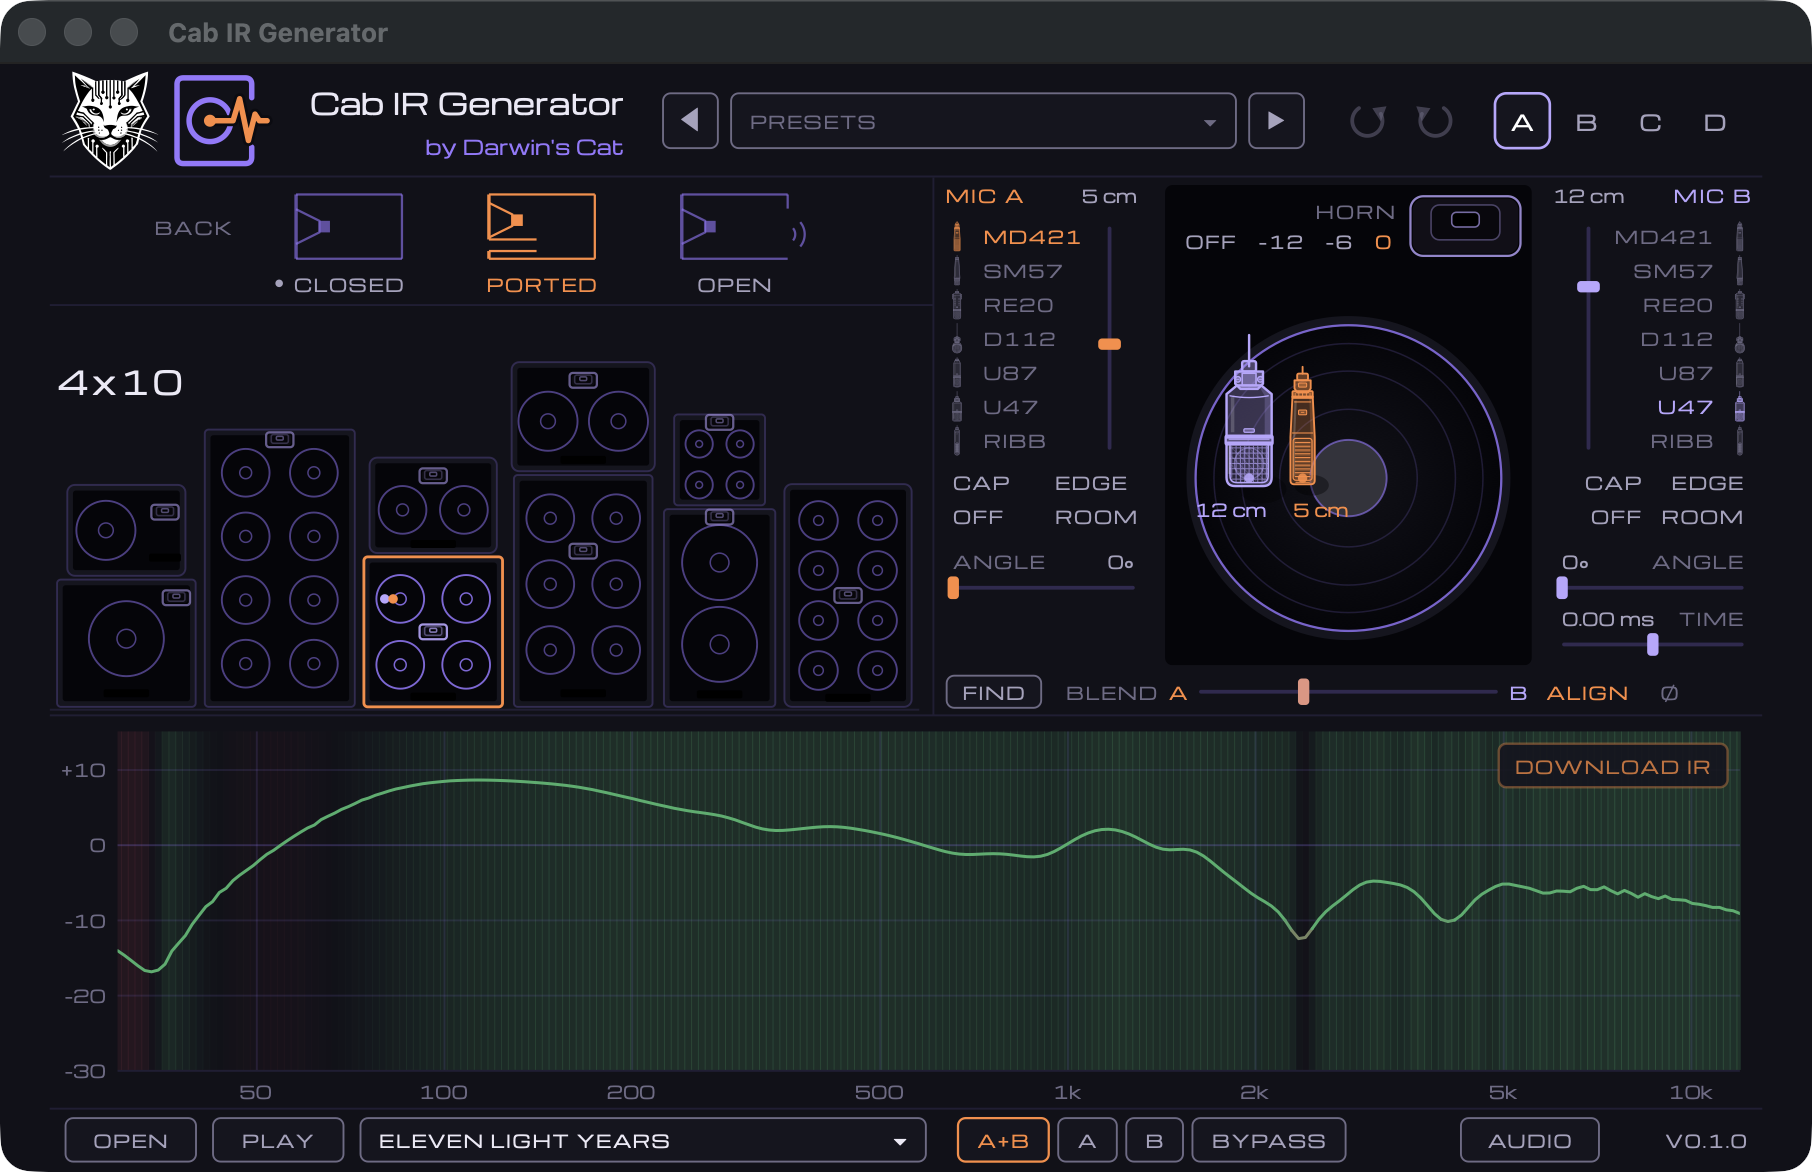
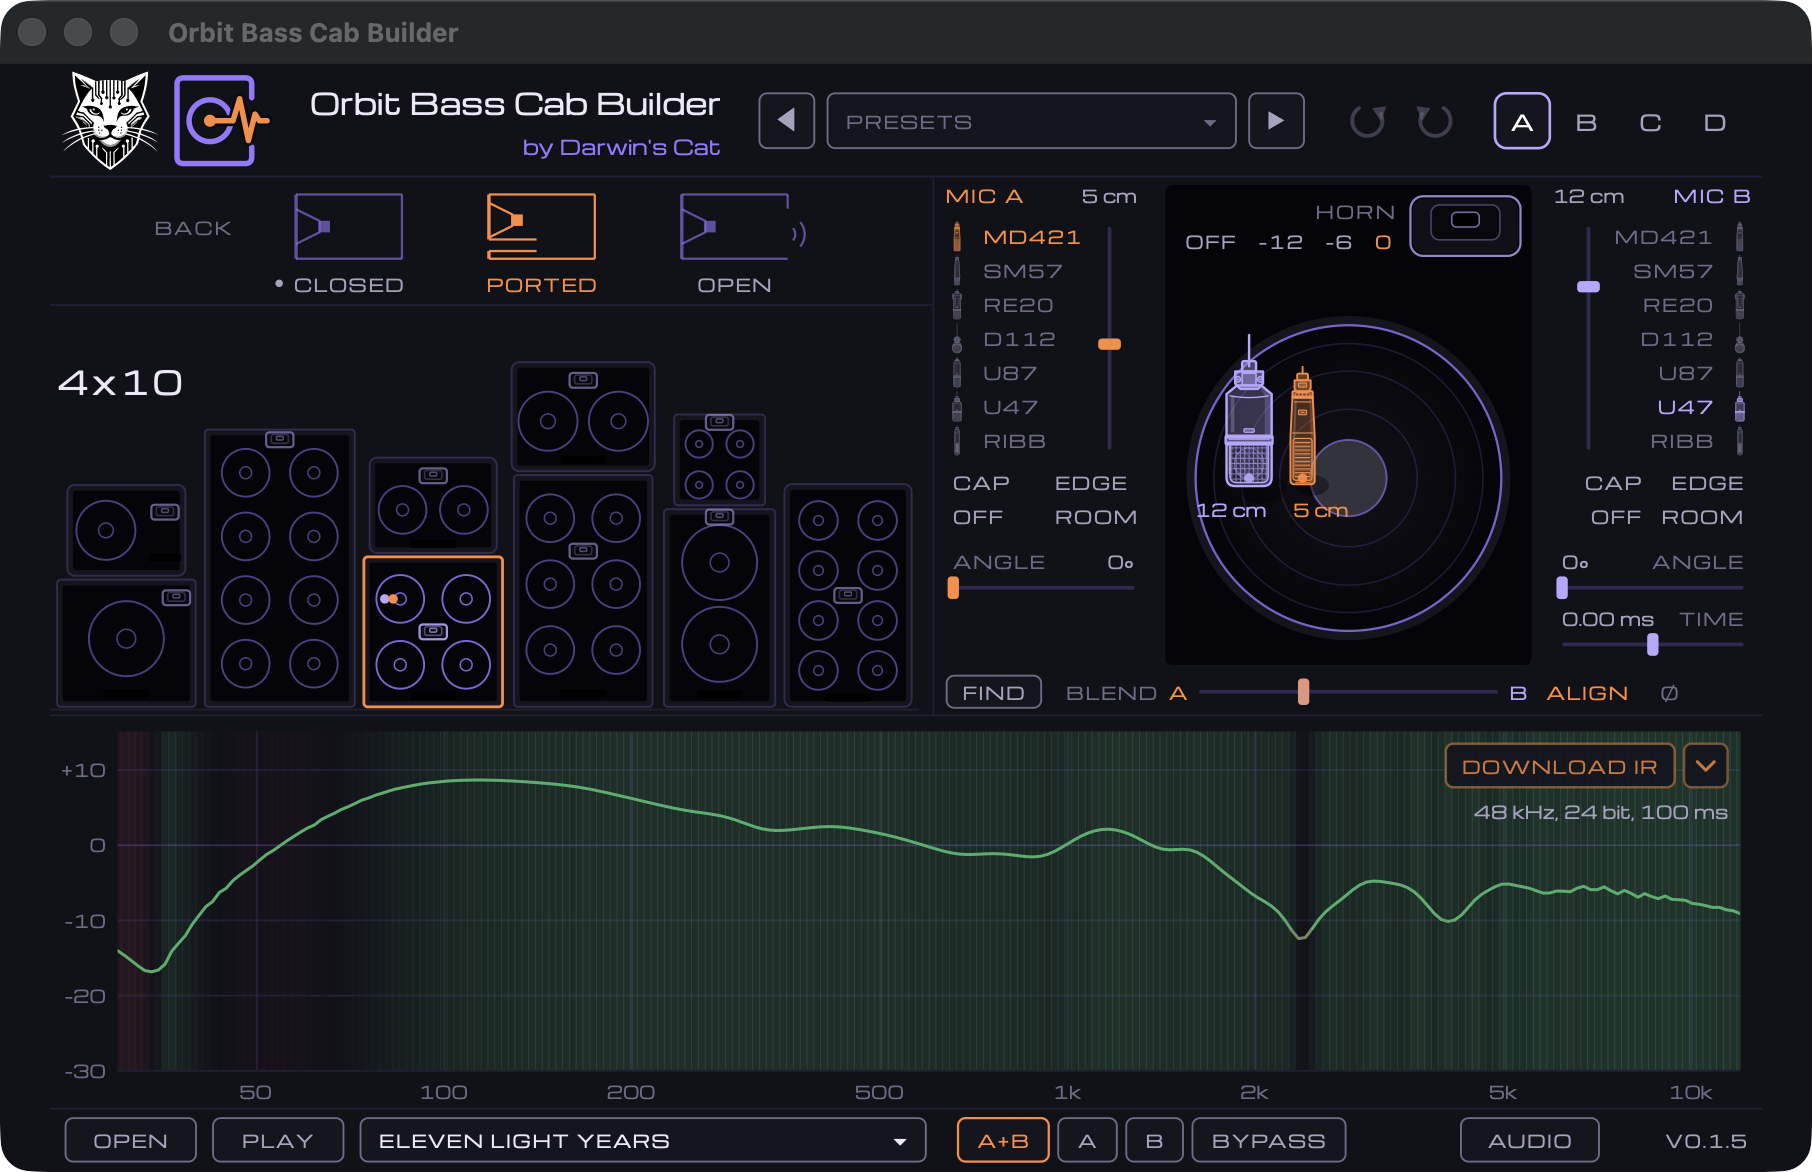
The README's picture of the app under its new name; the packs' picture says a click opens a cabinet on the page, not "in the generator"

Changed region(s): [[0.1854, 0.0614, 0.5254, 0.1536], [0.7726, 0.6143, 0.9581, 0.7065], [0.0927, 0.0, 0.2472, 0.0307]]

diff --git a/tools/cabpack.cpp b/tools/cabpack.cpp
@@ -333,7 +333,7 @@ namespace
         out += "<text x=\"20\" y=\"32\" fill=\"#ece9f6\" font-size=\"20\" font-weight=\"600\" letter-spacing=\"1.5\" " + svgFont + ">"
              + escaped (title) + " \xc2\xb7 " + std::to_string (items.size()) + " BASS CABINETS from Darwin's Cat</text>\n";
         out += "<text x=\"20\" y=\"56\" fill=\"#a6a2bd\" font-size=\"13\" " + svgFont + ">Made with Orbit Bass Cab Builder " + CABIR_VERSION
-             + ". A click on one opens it in the generator.</text>\n";
+             + ". A click on one opens it on the page.</text>\n";
         legendSvg (out, 20, 80, true, true);
         for (size_t i = 0; i < items.size() && i < curves.size(); ++i)
         {
